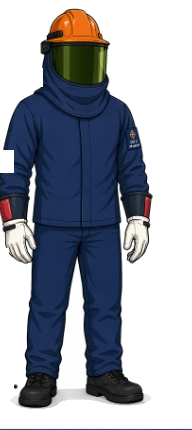
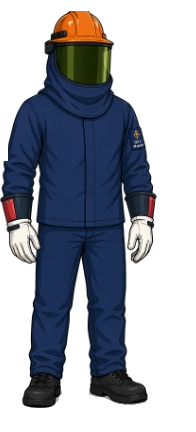
Recut the chart figure cleanly
Wider crop so nothing is shaved off the hat, hood or sleeve; near-white
background faded by colour with the cream gloves and sleeve patch
protected, which also drops the chart's compression noise; speckle and
blob passes remove the leader lines and dots; banner strip, panel edge
and floor ellipse cleared. Fully transparent around the figure.

Changed region(s): [[0.0, 0.0, 0.8125, 0.9674], [0.0, 0.9977, 1.0, 1.0]]

diff --git a/src/electrical/ui/Worker.tsx b/src/electrical/ui/Worker.tsx
@@ -4,18 +4,18 @@ import sprite from './assets/worker.png'
 
 /**
  * The technician from the arc flash PPE chart. Gear that is on him shows in full colour; gear still on the rack is a
- * faint grey ghost. Nothing is drawn over the artwork. Regions are in the sprite's own pixel space (192 × 430).
+ * faint grey ghost. Nothing is drawn over the artwork. Regions are in the sprite's own pixel space (196 × 432).
  */
 type Region = { x: number; y: number; w: number; h: number }
 const R: Record<string, Region[]> = {
-  hat: [{ x: 38, y: 6, w: 76, h: 42 }],
-  visor: [{ x: 45, y: 44, w: 62, h: 44 }],
-  hood: [{ x: 16, y: 44, w: 104, h: 80 }],
-  jacket: [{ x: 0, y: 94, w: 152, h: 134 }],
-  cuffs: [{ x: 0, y: 188, w: 32, h: 32 }, { x: 120, y: 188, w: 32, h: 32 }],
-  gloves: [{ x: 2, y: 214, w: 36, h: 54 }, { x: 118, y: 214, w: 36, h: 54 }],
-  pants: [{ x: 16, y: 226, w: 116, h: 154 }],
-  boots: [{ x: 8, y: 370, w: 140, h: 40 }],
+  hat: [{ x: 40, y: 0, w: 80, h: 50 }],
+  visor: [{ x: 48, y: 46, w: 64, h: 44 }],
+  hood: [{ x: 18, y: 46, w: 108, h: 80 }],
+  jacket: [{ x: 0, y: 96, w: 160, h: 134 }],
+  cuffs: [{ x: 0, y: 190, w: 36, h: 32 }, { x: 122, y: 190, w: 38, h: 32 }],
+  gloves: [{ x: 0, y: 216, w: 42, h: 56 }, { x: 118, y: 216, w: 44, h: 56 }],
+  pants: [{ x: 18, y: 228, w: 120, h: 154 }],
+  boots: [{ x: 6, y: 372, w: 150, h: 60 }],
 }
 
 export function Worker({ ppe }: { ppe: PpeId[]; adequate?: boolean }) {
@@ -32,13 +32,13 @@ export function Worker({ ppe }: { ppe: PpeId[]; adequate?: boolean }) {
   if (on('boots')) worn.push(...R.boots)
 
   return (
-    <svg viewBox="0 0 192 430" className="worker photo">
+    <svg viewBox="0 0 196 432" className="worker photo">
       <defs>
         <filter id="wGhost"><feColorMatrix type="saturate" values="0" /></filter>
         <clipPath id="wWorn">{worn.map((r, i) => <rect key={i} x={r.x} y={r.y} width={r.w} height={r.h} />)}</clipPath>
       </defs>
-      <image href={sprite} width="192" height="430" filter="url(#wGhost)" opacity="0.18" />
-      <image href={sprite} width="192" height="430" clipPath="url(#wWorn)" />
+      <image href={sprite} width="196" height="432" filter="url(#wGhost)" opacity="0.18" />
+      <image href={sprite} width="196" height="432" clipPath="url(#wWorn)" />
     </svg>
   )
 }

diff --git a/src/electrical.css b/src/electrical.css
@@ -220,7 +220,7 @@ svg.worker { width: 160px; height: 342px; border-radius: 10px; background: trans
 /* suit-up layout: figure scales with its column and never covers the fields */
 .suitup-top { grid-template-columns: 140px minmax(0, 1fr); }
 .suitup-figure { width: 140px; min-width: 0; }
-svg.worker { width: 100%; height: auto; max-height: 300px; aspect-ratio: 192 / 430; }
+svg.worker { width: 100%; height: auto; max-height: 300px; aspect-ratio: 196 / 432; }
 .suitup-label { min-width: 0; }
 @media (max-width: 900px) {
   .suitup-top { grid-template-columns: 1fr; justify-items: center; }
